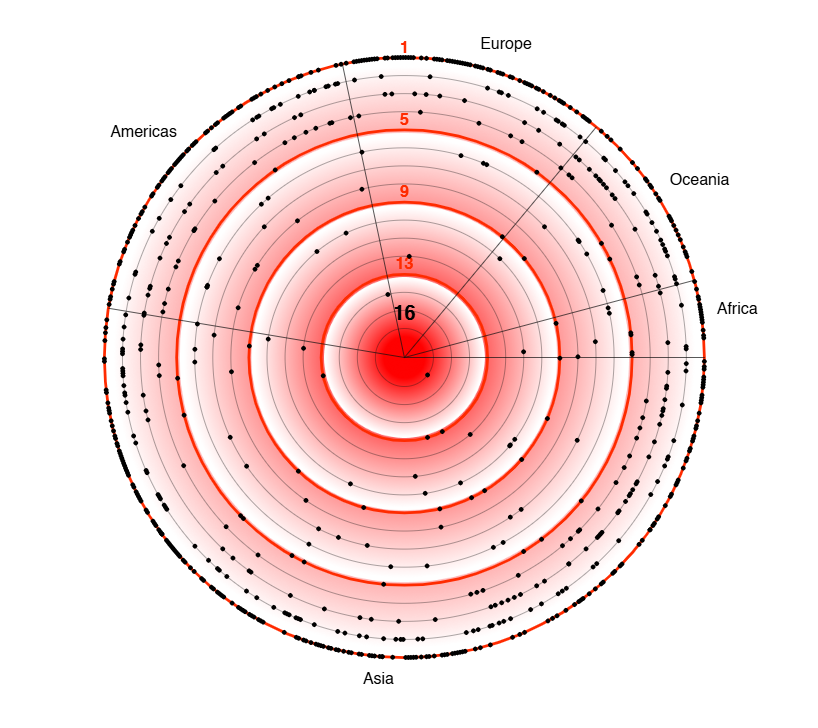
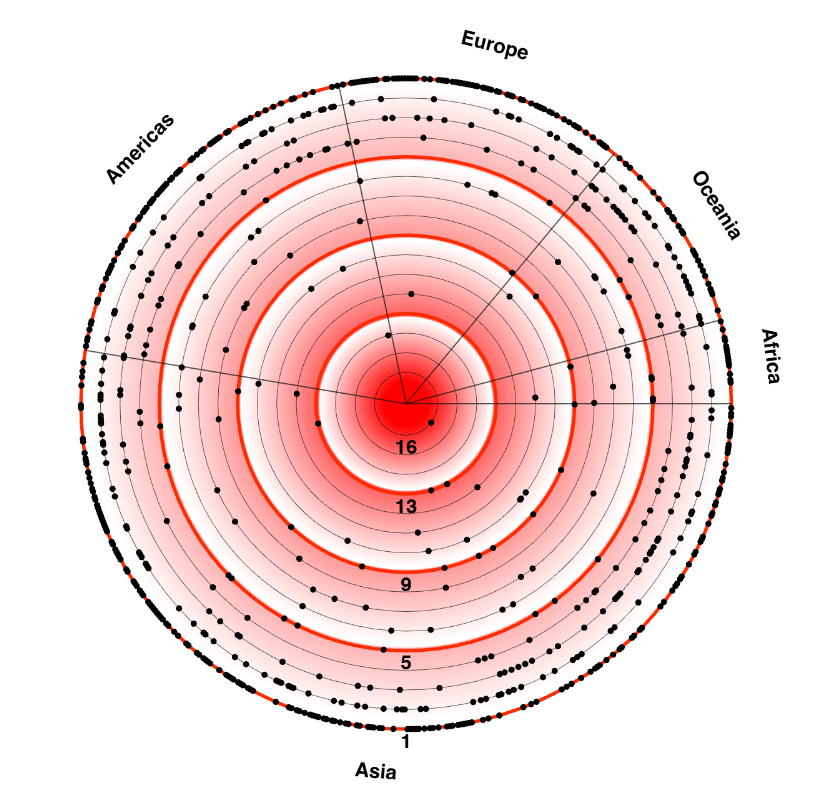
[methodology] nuovi screen

Changed region(s): [[0.0917, 0.0302, 0.9474, 0.967]]

diff --git a/pages/sketch_detail.js b/pages/sketch_detail.js
@@ -133,7 +133,6 @@ let transitionState = {
 
 //img
 let worldMap;
-let bookIcon;
 let currentVolcanoImage = null;
 let imageCache = {};
 let imagesLoaded = false;
@@ -141,7 +140,6 @@ let imagesLoaded = false;
 function preload() {
   data = loadTable("../assets/data_impatto.csv", "csv", "header");
   worldMap = loadImage("../assets/Equirectangular_projection.jpg");
-  bookIcon = loadImage("../assets/book_icon.png");
 
   stratoImg = loadImage("../assets/stratovolcano.png");
   calderaImg = loadImage("../assets/caldera.png");
